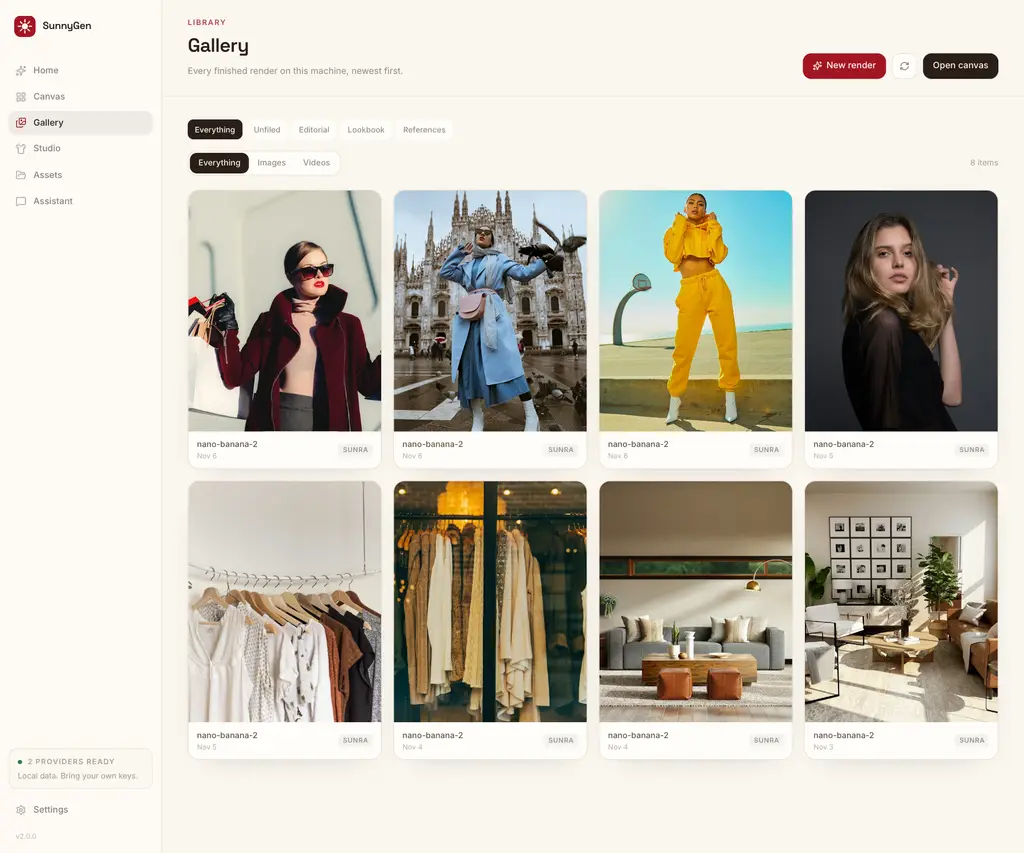
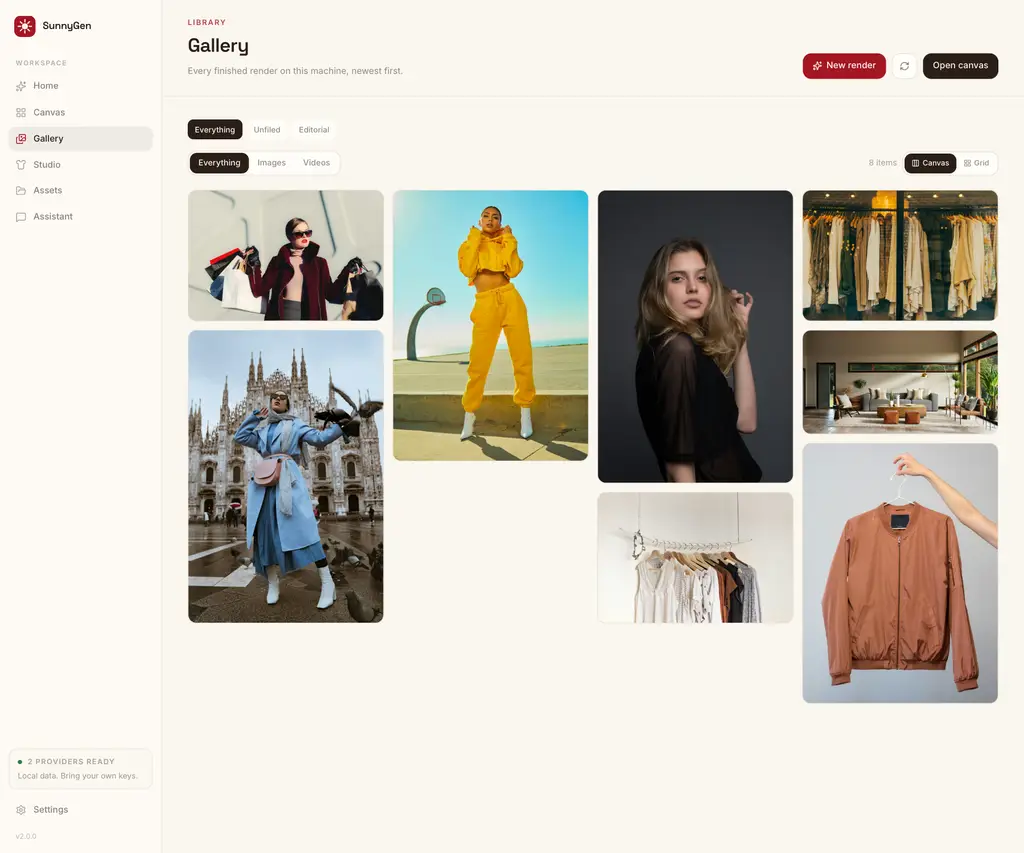
docs: refresh gallery screenshot and capabilities

diff --git a/README.md b/README.md
@@ -33,6 +33,7 @@ No account. No shared credit pool. No markup. No telemetry.
 - **Pipelines, not one-off prompts.** Save a canvas and re-run it with new references.
 - **Studio built in.** Avatars, garment prep, poses, scenes, and multi-angle lookbooks.
 - **Boring storage.** Content-addressed media, byte-range streaming, no cloud bucket required.
+- **Responsive shell.** Side rail on desktop, slide-over drawer on phones, and PWA installability.
 - **Hackable.** Small TypeScript packages, typed server functions, and a clean monorepo.
 
 ## Quick start
@@ -86,10 +87,10 @@ the app.
 
 ### Gallery and canvas
 
-| Gallery                                                                                                                | Canvas                                                                                                                     |
-| ---------------------------------------------------------------------------------------------------------------------- | -------------------------------------------------------------------------------------------------------------------------- |
-| <img src="docs/screenshots/gallery.webp" alt="SunnyGen gallery grid with folders and generated images" width="100%" /> | <img src="docs/screenshots/canvas.webp" alt="SunnyGen canvas with prompt, image input, and generate nodes" width="100%" /> |
-| Finished images and video, folders, retries, and a one-off render dialog.                                              | Reusable node pipelines with per-node models, references, and autosave.                                                    |
+| Gallery                                                                                                                       | Canvas                                                                                                                     |
+| ----------------------------------------------------------------------------------------------------------------------------- | -------------------------------------------------------------------------------------------------------------------------- |
+| <img src="docs/screenshots/gallery.webp" alt="SunnyGen gallery canvas wall with folders and generated images" width="100%" /> | <img src="docs/screenshots/canvas.webp" alt="SunnyGen canvas with prompt, image input, and generate nodes" width="100%" /> |
+| Canvas wall or grid, folders, retries, lightbox, and one-off renders.                                                         | Reusable node pipelines with per-node models, references, and autosave.                                                    |
 
 ### Assistant and assets
 
@@ -106,7 +107,7 @@ the app.
 | ------------- | ---------------------------------------------------------------------------------------------------------------------------- |
 | **Studio**    | Avatar sheets, wardrobe slots, garment prep, pose and scene references, then 1–4 angle renders per look.                     |
 | **Canvas**    | Infinite node editor with prompt, media, generate, note, and comment nodes. Graphs autosave and execute in dependency order. |
-| **Gallery**   | Image and video renders, folders, failed-job retry, lightbox, download, and social imports.                                  |
+| **Gallery**   | Image and video renders in a canvas wall or grid, folders, failed-job retry, lightbox, download, and social imports.         |
 | **Assets**    | Uploads and imported references, deduplicated by SHA-256 and served with byte-range support.                                 |
 | **Assistant** | OpenRouter-powered prompt drafting and rewrites with selectable response modes. Never used for generation.                   |
 | **Launcher**  | One command to build, serve, publish on your LAN, and keep the app alive.                                                    |
